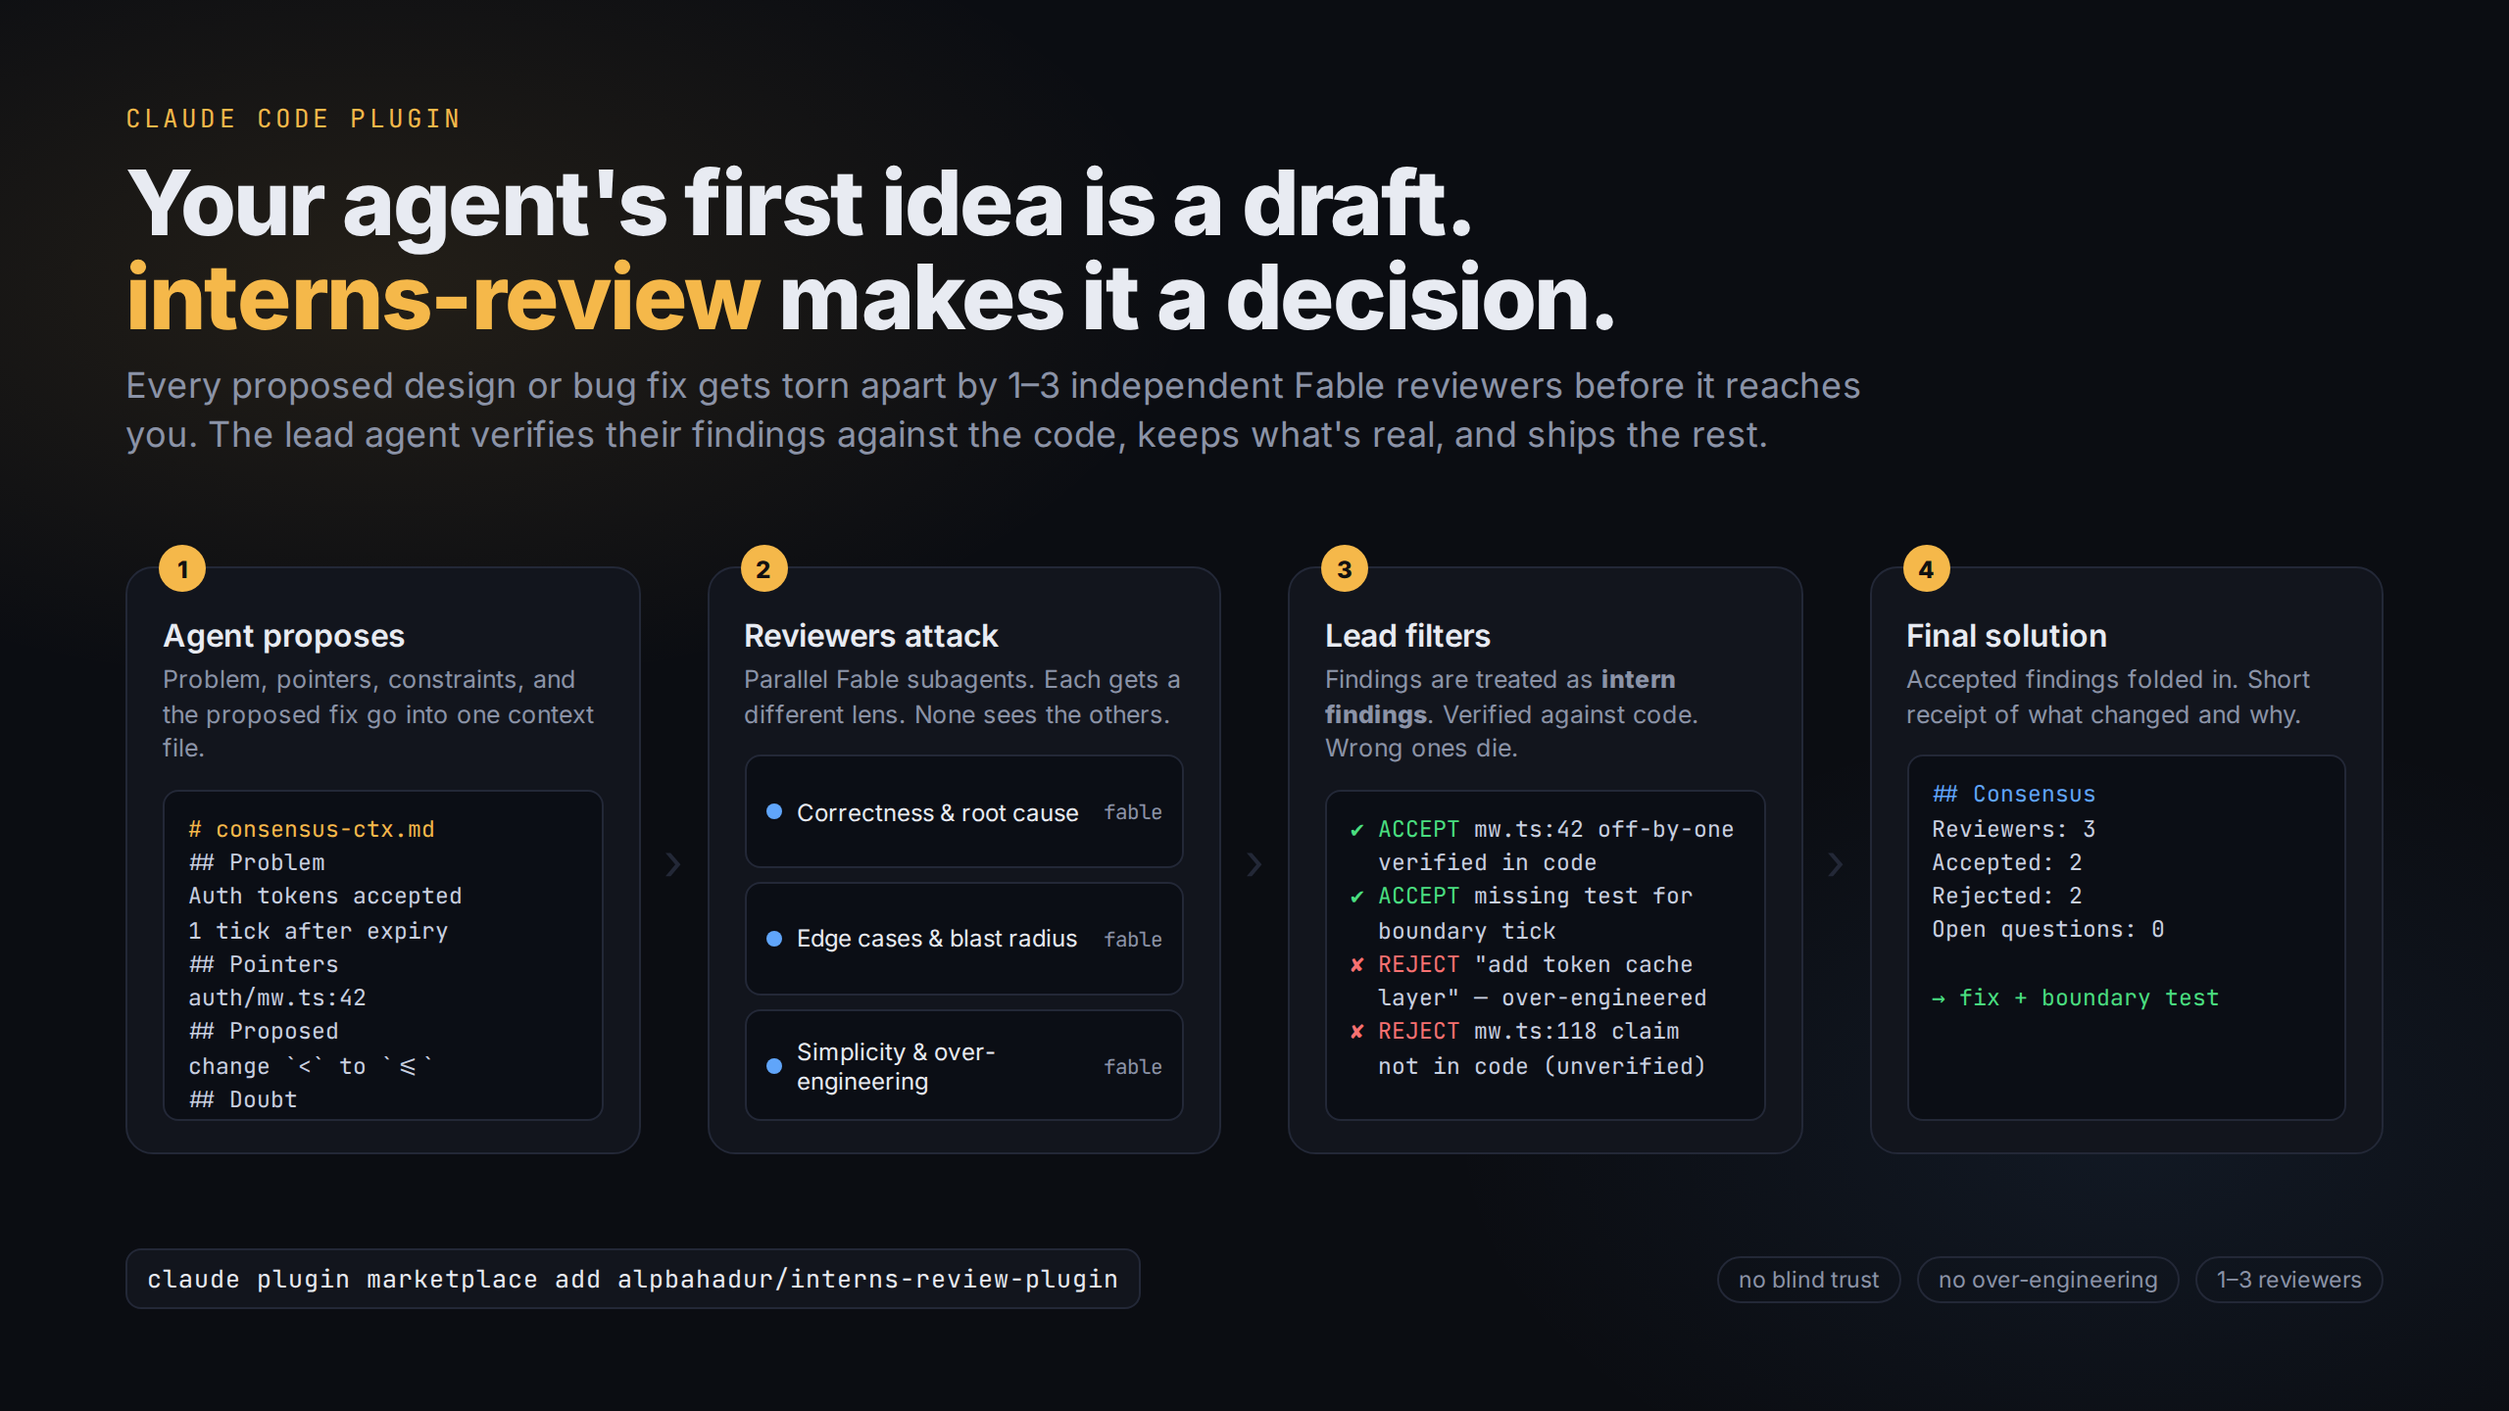
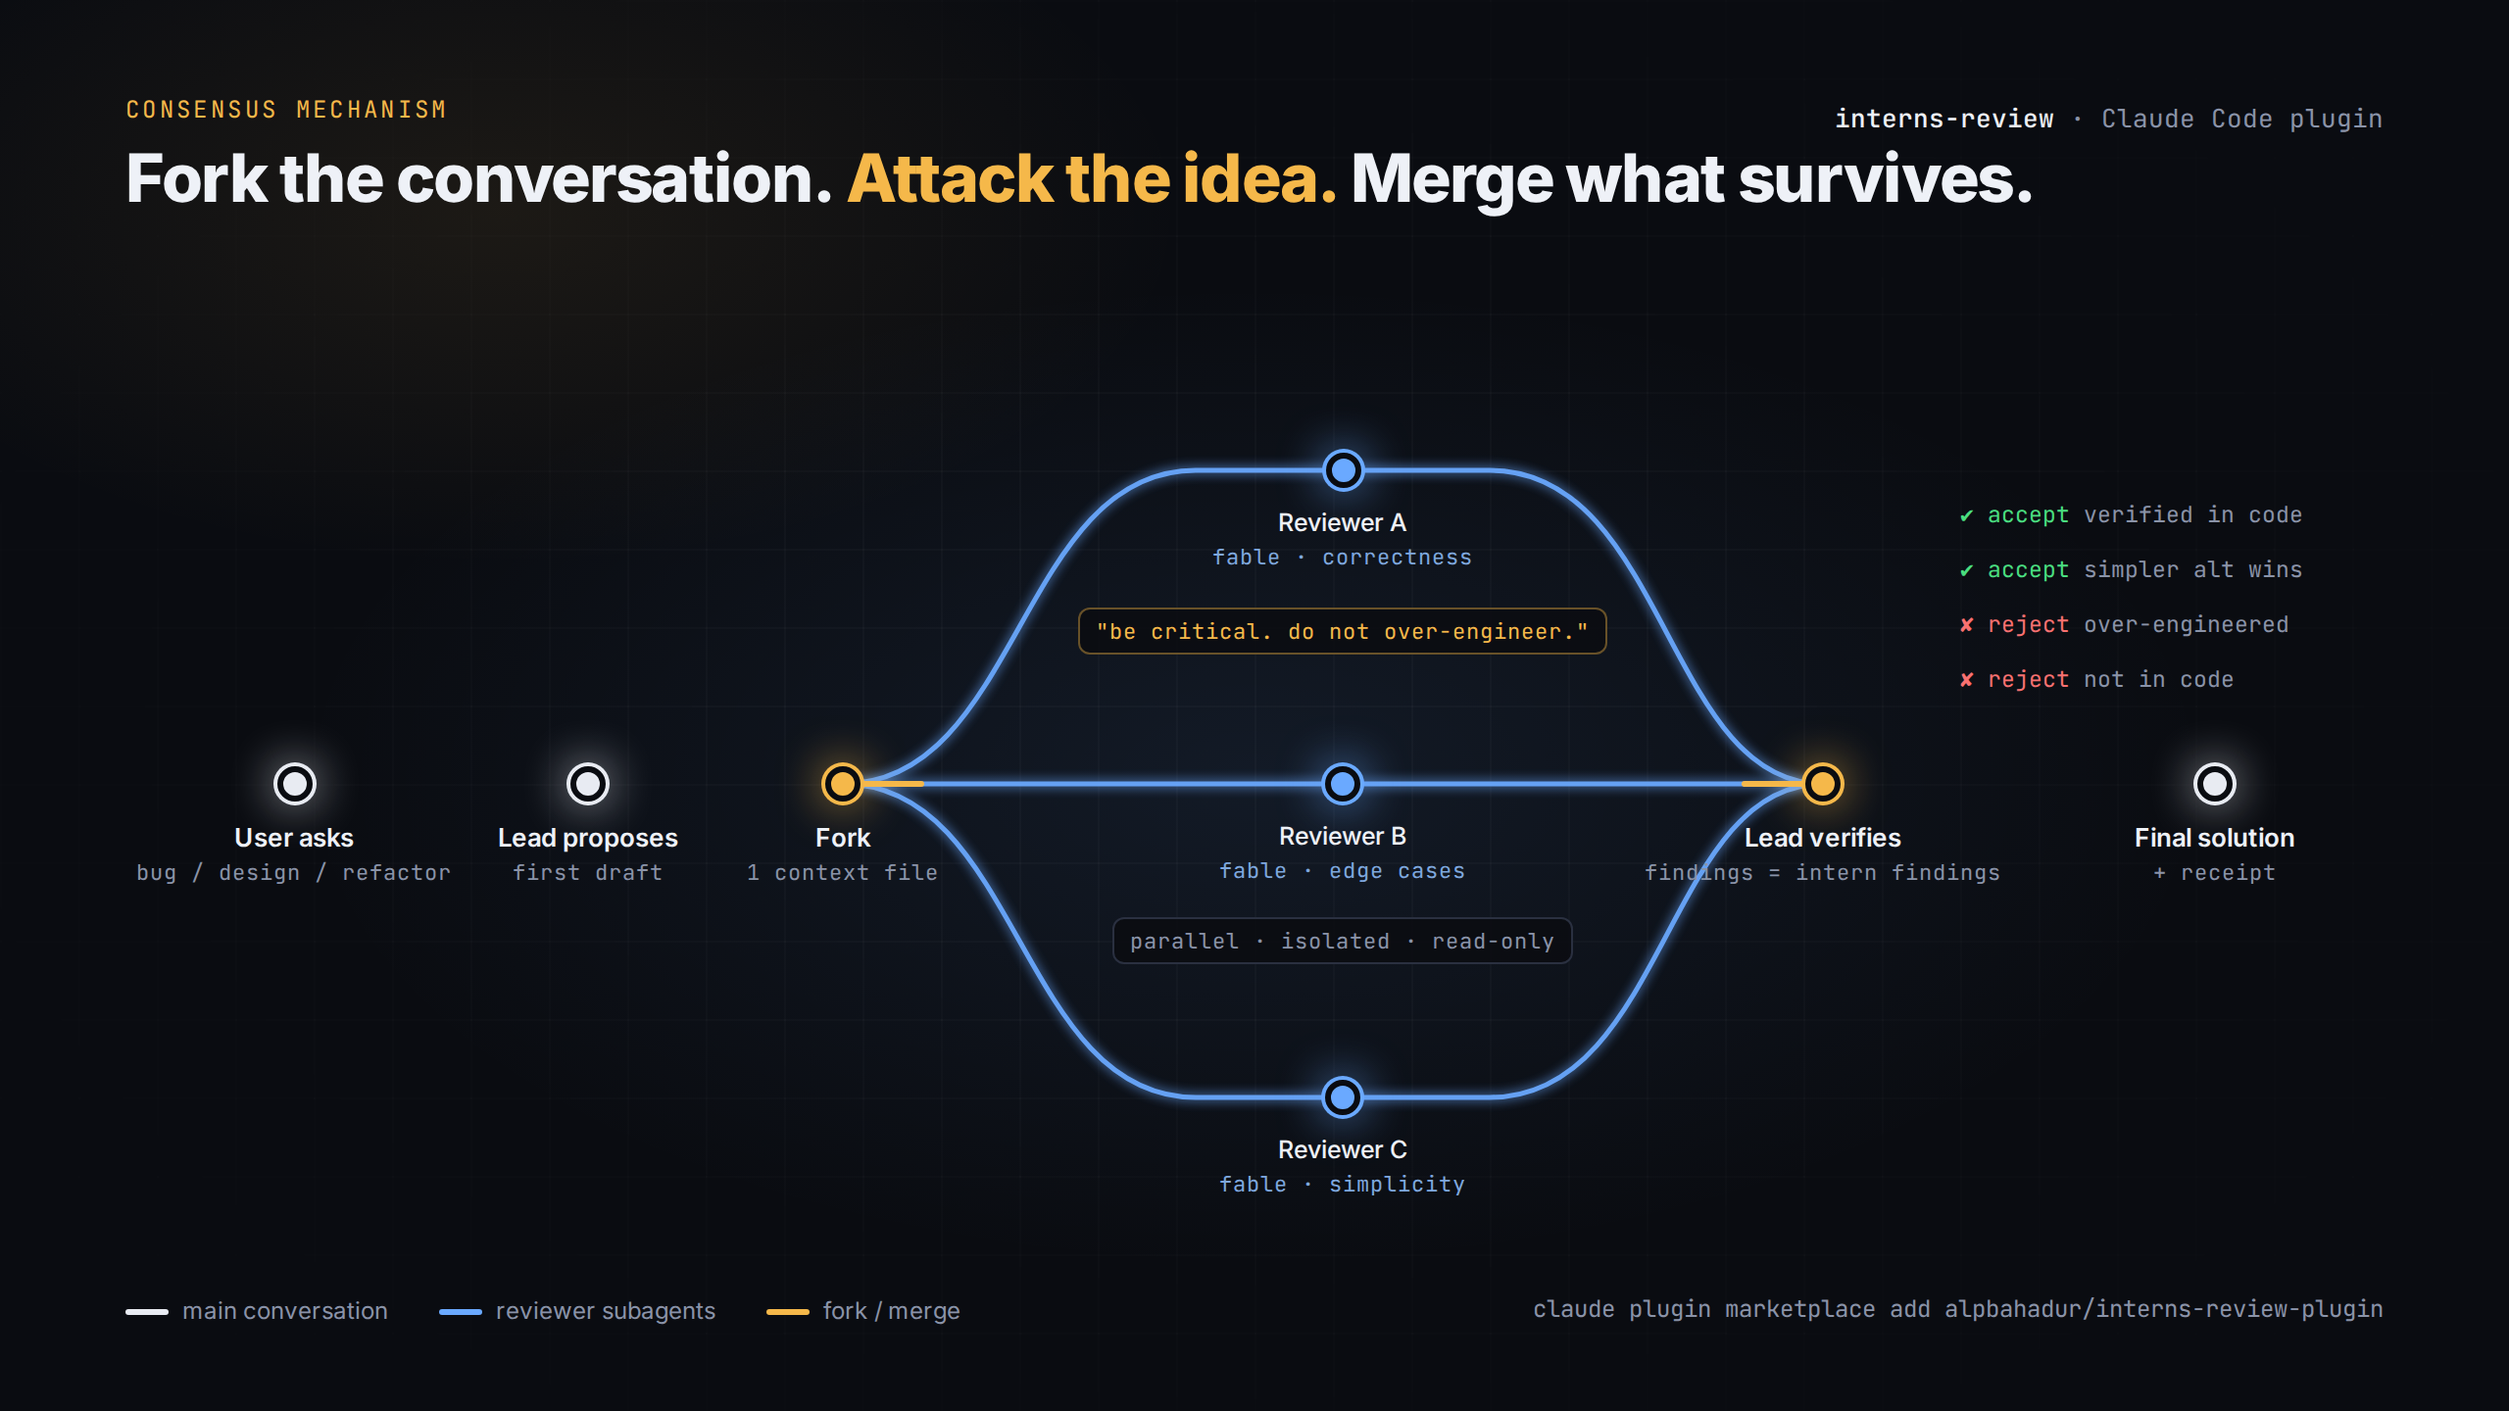
Hero: fork/merge graph of the consensus mechanism
Claude-Session: https://claude.ai/code/session_01Rwsy6f1GaBPFtNRJZFESbw

diff --git a/docs/hero.html b/docs/hero.html
@@ -2,130 +2,93 @@
 <html lang="en">
 <head>
 <meta charset="utf-8">
-<title>interns-review — hero</title>
-<link href="https://fonts.googleapis.com/css2?family=Inter:wght@400;500;600;800&family=JetBrains+Mono:wght@400;600&display=swap" rel="stylesheet">
+<title>interns-review</title>
+<link href="https://fonts.googleapis.com/css2?family=Inter:wght@400;500;600;800&family=JetBrains+Mono:wght@400;500&display=swap" rel="stylesheet">
 <style>
-  :root {
-    --bg: #0b0d12;
-    --panel: #12151d;
-    --line: #232837;
-    --text: #e8ebf2;
-    --muted: #8b93a7;
-    --accent: #f5b84a;
-    --green: #4ade80;
-    --red: #f87171;
-    --blue: #60a5fa;
-  }
-  * { box-sizing: border-box; }
-  body {
-    margin: 0; background: var(--bg); color: var(--text);
-    font-family: Inter, system-ui, sans-serif;
-    width: 1280px; height: 720px; overflow: hidden; position: relative;
-  }
-  body::before {
-    content: ""; position: absolute; inset: 0;
-    background:
-      radial-gradient(600px 300px at 15% 20%, rgba(245,184,74,.10), transparent 70%),
-      radial-gradient(500px 300px at 85% 80%, rgba(96,165,250,.08), transparent 70%);
-    pointer-events: none;
-  }
-  .wrap { position: relative; padding: 52px 64px; height: 100%; display: flex; flex-direction: column; }
-  .kicker { font-family: "JetBrains Mono", monospace; font-size: 13px; color: var(--accent); letter-spacing: .12em; text-transform: uppercase; }
-  h1 { font-size: 46px; font-weight: 800; letter-spacing: -.02em; margin: 10px 0 8px; line-height: 1.05; }
-  h1 span { color: var(--accent); }
-  .sub { color: var(--muted); font-size: 18px; margin: 0 0 34px; max-width: 900px; line-height: 1.4; }
-
-  .flow { display: grid; grid-template-columns: 1fr 34px 1fr 34px 1fr 34px 1fr; align-items: center; gap: 0; flex: 1; }
-  .card {
-    background: var(--panel); border: 1px solid var(--line); border-radius: 14px;
-    padding: 18px 18px 16px; height: 300px; display: flex; flex-direction: column; position: relative;
-  }
-  .card .n { position: absolute; top: -12px; left: 16px; background: var(--accent); color: #111; font-weight: 800; font-size: 12px; width: 24px; height: 24px; border-radius: 999px; display: grid; place-items: center; }
-  .card h3 { margin: 6px 0 4px; font-size: 16px; font-weight: 600; }
-  .card p { margin: 0 0 12px; color: var(--muted); font-size: 12.5px; line-height: 1.4; }
-  .mono { font-family: "JetBrains Mono", monospace; font-size: 11.5px; line-height: 1.5; background: #0b0e15; border: 1px solid var(--line); border-radius: 8px; padding: 10px 12px; color: #c9d0e0; white-space: pre; overflow: hidden; flex: 1; }
-  .arrow { color: var(--line); font-size: 26px; text-align: center; }
-  .reviewers { display: flex; flex-direction: column; gap: 7px; flex: 1; }
-  .rev { display: flex; align-items: center; gap: 8px; height: 100%; background: #0b0e15; border: 1px solid var(--line); border-radius: 8px; padding: 7px 10px; font-size: 12px; }
-  .dot { width: 8px; height: 8px; border-radius: 999px; background: var(--blue); flex: none; }
-  .rev small { color: var(--muted); margin-left: auto; font-family: "JetBrains Mono", monospace; font-size: 10.5px; }
-  .g { color: var(--green); } .r { color: var(--red); } .y { color: var(--accent); } .b { color: var(--blue); }
-
-  .foot { display: flex; justify-content: space-between; align-items: center; margin-top: 26px; color: var(--muted); font-size: 13px; }
-  .foot code { font-family: "JetBrains Mono", monospace; background: var(--panel); border: 1px solid var(--line); padding: 6px 10px; border-radius: 8px; color: var(--text); font-size: 12.5px; }
-  .pills { display: flex; gap: 8px; }
-  .pill { border: 1px solid var(--line); border-radius: 999px; padding: 4px 10px; font-size: 11.5px; color: var(--muted); }
+  :root{--bg:#0a0c11;--line:#2a3040;--text:#eef1f7;--muted:#8a93a8;--amber:#f5b84a;--blue:#6aa9ff;--green:#4ade80;--red:#f87171;--main:#e8ebf2}
+  *{box-sizing:border-box}
+  body{margin:0;width:1280px;height:720px;overflow:hidden;background:var(--bg);color:var(--text);font-family:Inter,system-ui,sans-serif;position:relative}
+  body::before{content:"";position:absolute;inset:0;background:
+    radial-gradient(700px 360px at 50% 55%,rgba(106,169,255,.09),transparent 70%),
+    radial-gradient(500px 260px at 20% 15%,rgba(245,184,74,.08),transparent 70%);}
+  body::after{content:"";position:absolute;inset:0;background-image:linear-gradient(rgba(255,255,255,.025) 1px,transparent 1px),linear-gradient(90deg,rgba(255,255,255,.025) 1px,transparent 1px);background-size:40px 40px;mask-image:radial-gradient(800px 500px at 50% 50%,#000 30%,transparent 100%)}
+  .hdr{position:absolute;left:64px;top:48px;z-index:2}
+  .kicker{font-family:"JetBrains Mono",monospace;font-size:12px;letter-spacing:.14em;color:var(--amber);text-transform:uppercase}
+  h1{margin:8px 0 0;font-size:34px;font-weight:800;letter-spacing:-.02em;line-height:1.1}
+  h1 span{color:var(--amber)}
+  .brand{position:absolute;right:64px;top:52px;font-family:"JetBrains Mono",monospace;font-size:13px;color:var(--muted);z-index:2}
+  .brand b{color:var(--text);font-weight:500}
+  svg{position:absolute;inset:0;z-index:1}
+  .node{position:absolute;z-index:3;transform:translate(-50%,-9px);text-align:center}
+  .dot{width:18px;height:18px;border-radius:999px;margin:0 auto;border:3px solid var(--bg);box-shadow:0 0 0 2px currentColor,0 0 24px currentColor}
+  .lbl{margin-top:10px;font-size:13px;font-weight:600;white-space:nowrap}
+  .sub{font-family:"JetBrains Mono",monospace;font-size:11px;color:var(--muted);margin-top:3px;white-space:nowrap}
+  .main .dot{background:var(--main);color:var(--main)}
+  .rev .dot{background:var(--blue);color:var(--blue)}
+  .rev .lbl{font-size:12.5px;font-weight:500}
+  .rev .sub{color:#7fa8de}
+  .fork .dot,.merge .dot{background:var(--amber);color:var(--amber)}
+  .tag{position:absolute;z-index:3;font-family:"JetBrains Mono",monospace;font-size:11px;color:var(--muted);background:rgba(10,12,17,.85);border:1px solid var(--line);border-radius:6px;padding:4px 8px;transform:translate(-50%,-50%);white-space:nowrap}
+  .tag.amber{color:var(--amber);border-color:rgba(245,184,74,.4)}
+  .verdict{position:absolute;z-index:3;font-family:"JetBrains Mono",monospace;font-size:11.5px;transform:translate(0,-50%);white-space:nowrap}
+  .g{color:var(--green)}.r{color:var(--red)}
+  .lane{position:absolute;left:64px;bottom:44px;z-index:2;display:flex;gap:26px;font-size:12px;color:var(--muted);align-items:center}
+  .sw{display:inline-block;width:22px;height:3px;border-radius:2px;vertical-align:middle;margin-right:7px}
+  .foot{position:absolute;right:64px;bottom:44px;z-index:2;font-family:"JetBrains Mono",monospace;font-size:12px;color:var(--muted)}
 </style>
 </head>
 <body>
-<div class="wrap">
-  <div class="kicker">Claude Code plugin</div>
-  <h1>Your agent's first idea is a draft.<br><span>interns-review</span> makes it a decision.</h1>
-  <p class="sub">Every proposed design or bug fix gets torn apart by 1–3 independent Fable reviewers before it reaches you. The lead agent verifies their findings against the code, keeps what's real, and ships the rest.</p>
-
-  <div class="flow">
-    <div class="card">
-      <div class="n">1</div>
-      <h3>Agent proposes</h3>
-      <p>Problem, pointers, constraints, and the proposed fix go into one context file.</p>
-      <div class="mono"><span class="y"># consensus-ctx.md</span>
-## Problem
-Auth tokens accepted
-1 tick after expiry
-## Pointers
-auth/mw.ts:42
-## Proposed
-change `&lt;` to `&lt;=`
-## Doubt
-only check site?</div>
-    </div>
-    <div class="arrow">›</div>
-
-    <div class="card">
-      <div class="n">2</div>
-      <h3>Reviewers attack</h3>
-      <p>Parallel Fable subagents. Each gets a different lens. None sees the others.</p>
-      <div class="reviewers">
-        <div class="rev"><span class="dot"></span>Correctness &amp; root cause<small>fable</small></div>
-        <div class="rev"><span class="dot"></span>Edge cases &amp; blast radius<small>fable</small></div>
-        <div class="rev"><span class="dot"></span>Simplicity &amp; over-engineering<small>fable</small></div>
-      </div>
-    </div>
-    <div class="arrow">›</div>
-
-    <div class="card">
-      <div class="n">3</div>
-      <h3>Lead filters</h3>
-      <p>Findings are treated as <b>intern findings</b>. Verified against code. Wrong ones die.</p>
-      <div class="mono"><span class="g">✔ ACCEPT</span> mw.ts:42 off-by-one
-  verified in code
-<span class="g">✔ ACCEPT</span> missing test for
-  boundary tick
-<span class="r">✘ REJECT</span> "add token cache
-  layer" — over-engineered
-<span class="r">✘ REJECT</span> mw.ts:118 claim
-  not in code (unverified)</div>
-    </div>
-    <div class="arrow">›</div>
-
-    <div class="card">
-      <div class="n">4</div>
-      <h3>Final solution</h3>
-      <p>Accepted findings folded in. Short receipt of what changed and why.</p>
-      <div class="mono"><span class="b">## Consensus</span>
-Reviewers: 3
-Accepted: 2
-Rejected: 2
-Open questions: 0
-
-<span class="g">→ fix + boundary test</span></div>
-    </div>
-  </div>
-
-  <div class="foot">
-    <code>claude plugin marketplace add alpbahadur/interns-review-plugin</code>
-    <div class="pills"><span class="pill">no blind trust</span><span class="pill">no over-engineering</span><span class="pill">1–3 reviewers</span></div>
-  </div>
+<div class="hdr">
+  <div class="kicker">consensus mechanism</div>
+  <h1>Fork the conversation. <span>Attack the idea.</span> Merge what survives.</h1>
 </div>
+<div class="brand"><b>interns-review</b> · Claude Code plugin</div>
+
+<svg viewBox="0 0 1280 720" fill="none">
+  <defs>
+    <linearGradient id="mainG" x1="0" x2="1"><stop offset="0" stop-color="#e8ebf2" stop-opacity=".25"/><stop offset=".5" stop-color="#e8ebf2"/><stop offset="1" stop-color="#e8ebf2" stop-opacity=".25"/></linearGradient>
+    <filter id="glow"><feGaussianBlur stdDeviation="3" result="b"/><feMerge><feMergeNode in="b"/><feMergeNode in="SourceGraphic"/></feMerge></filter>
+  </defs>
+  <!-- main conversation line -->
+  <path d="M40 400 H1240" stroke="url(#mainG)" stroke-width="3" stroke-linecap="round"/>
+  <!-- fork: from x=430 to reviewers at x=680 -->
+  <g stroke="#6aa9ff" stroke-width="2.5" stroke-linecap="round" filter="url(#glow)" opacity=".95">
+    <path d="M430 400 C520 400 520 240 610 240 H760 C850 240 850 400 930 400"/>
+    <path d="M430 400 H930"/>
+    <path d="M430 400 C520 400 520 560 610 560 H760 C850 560 850 400 930 400"/>
+  </g>
+  <!-- dashed context-file arrow overlay on the fork -->
+  <path d="M430 400 H470" stroke="#f5b84a" stroke-width="3" stroke-linecap="round"/>
+  <path d="M890 400 H930" stroke="#f5b84a" stroke-width="3" stroke-linecap="round"/>
+</svg>
+
+<!-- main nodes -->
+<div class="node main" style="left:150px;top:400px"><div class="dot"></div><div class="lbl">User asks</div><div class="sub">bug / design / refactor</div></div>
+<div class="node main" style="left:300px;top:400px"><div class="dot"></div><div class="lbl">Lead proposes</div><div class="sub">first draft</div></div>
+<div class="node fork" style="left:430px;top:400px"><div class="dot"></div><div class="lbl">Fork</div><div class="sub">1 context file</div></div>
+
+<!-- reviewer nodes -->
+<div class="node rev" style="left:685px;top:240px"><div class="dot"></div><div class="lbl">Reviewer A</div><div class="sub">fable · correctness</div></div>
+<div class="node rev" style="left:685px;top:400px"><div class="dot"></div><div class="lbl">Reviewer B</div><div class="sub">fable · edge cases</div></div>
+<div class="node rev" style="left:685px;top:560px"><div class="dot"></div><div class="lbl">Reviewer C</div><div class="sub">fable · simplicity</div></div>
+
+<div class="tag amber" style="left:685px;top:322px">"be critical. do not over-engineer."</div>
+<div class="tag" style="left:685px;top:480px">parallel · isolated · read-only</div>
+
+<!-- merge -->
+<div class="node merge" style="left:930px;top:400px"><div class="dot"></div><div class="lbl">Lead verifies</div><div class="sub">findings = intern findings</div></div>
+<div class="verdict" style="left:1000px;top:262px"><span class="g">✔ accept</span> <span style="color:#8a93a8">verified in code</span></div>
+<div class="verdict" style="left:1000px;top:290px"><span class="g">✔ accept</span> <span style="color:#8a93a8">simpler alt wins</span></div>
+<div class="verdict" style="left:1000px;top:318px"><span class="r">✘ reject</span> <span style="color:#8a93a8">over-engineered</span></div>
+<div class="verdict" style="left:1000px;top:346px"><span class="r">✘ reject</span> <span style="color:#8a93a8">not in code</span></div>
+
+<div class="node main" style="left:1130px;top:400px"><div class="dot"></div><div class="lbl">Final solution</div><div class="sub">+ receipt</div></div>
+
+<div class="lane">
+  <span><i class="sw" style="background:#e8ebf2"></i>main conversation</span>
+  <span><i class="sw" style="background:#6aa9ff"></i>reviewer subagents</span>
+  <span><i class="sw" style="background:#f5b84a"></i>fork / merge</span>
+</div>
+<div class="foot">claude plugin marketplace add alpbahadur/interns-review-plugin</div>
 </body>
 </html>
